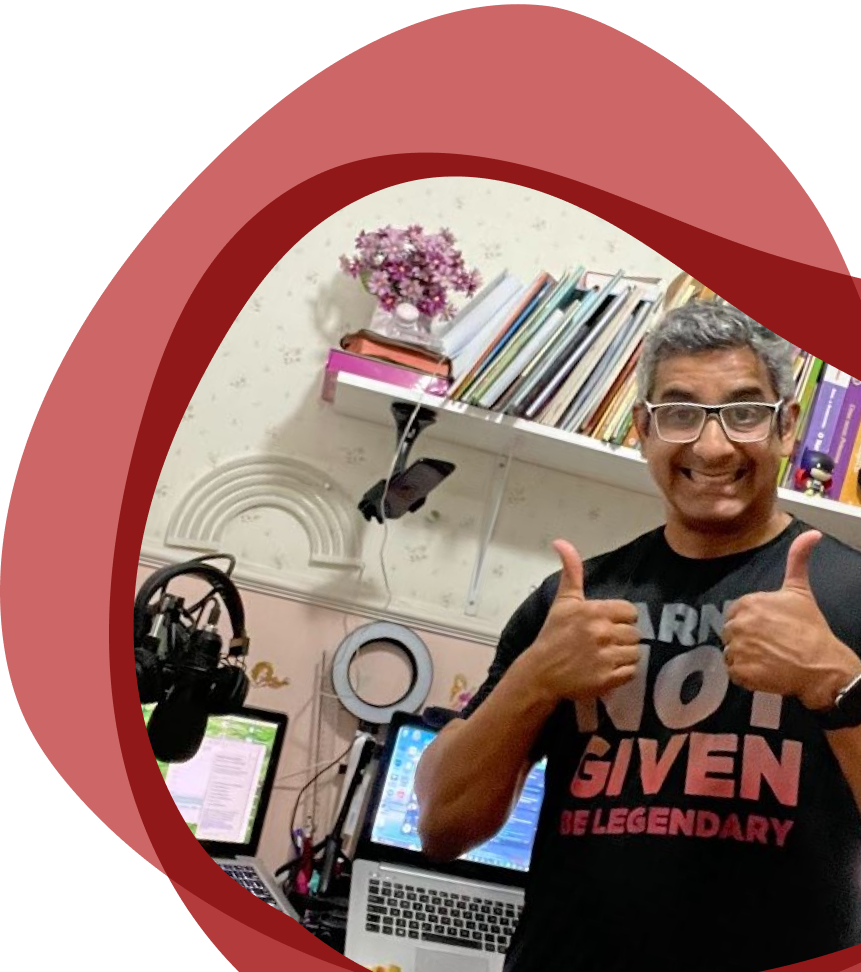
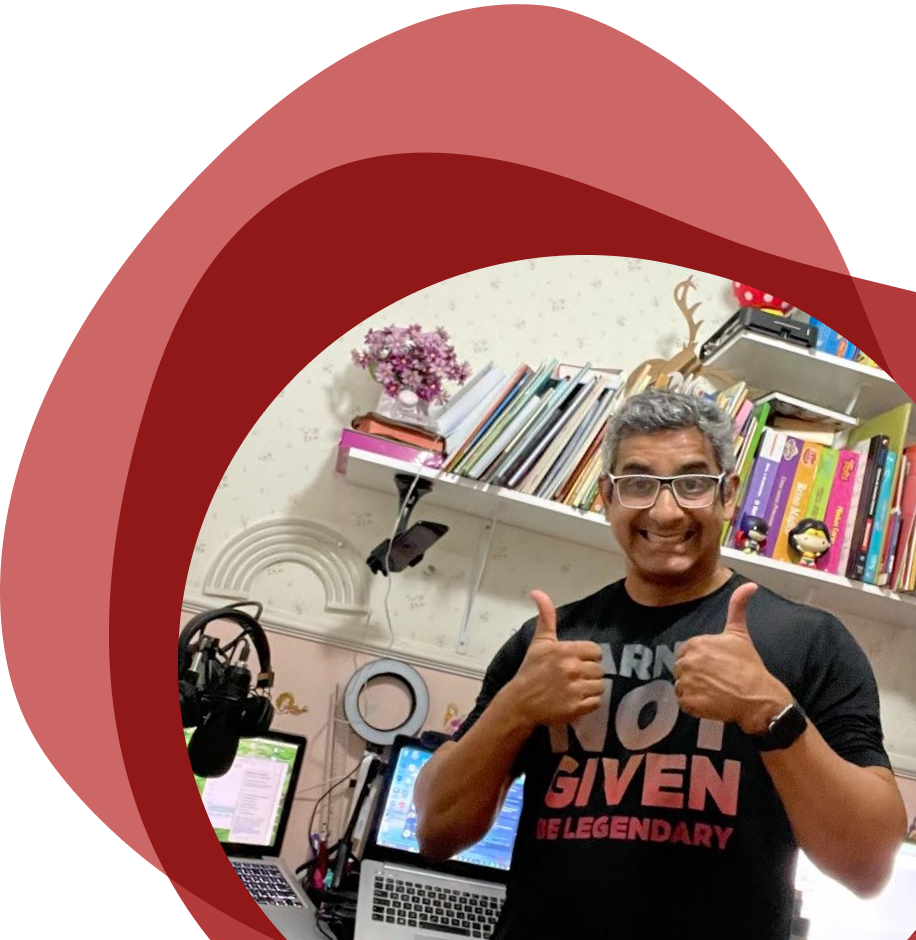
fix reajuste de imagem

diff --git a/src/pages/Login/style.ts b/src/pages/Login/style.ts
@@ -17,7 +17,7 @@ export const Body = styled.body`
 display: flex;
 height: 100vh;
 width: 100vw;
-justify-content: space-between;
+justify-content: space-around;
 overflow-x: hidden;
 @media (max-width: 1024px) {
   flex-direction: column;
@@ -117,8 +117,9 @@ export const FormStyle = styled.section`
   margin: auto;
   max-width: 410px;
   width: 100%;
-   top: 25%;
+   top: 28%;
    position: relative;
+   left: 6%;
 }
 
 @media (max-width: 1024px) {
@@ -128,6 +129,7 @@ export const FormStyle = styled.section`
   width: 100%;
   position: static;
   z-index: 1;
+  
 
 }
 
@@ -174,15 +176,15 @@ width: 50%;
 export const Image = styled.img`
 @media (min-width: 1025px) {
   position: fixed;
-  width: 55vw;
+  width: 50vw;
   bottom: 0px;
   right: 0px;
-  height: 97.5vh;
+  height: 99vh;
 }
 
 @media (max-width: 1024px)  {
   content: url(${TabletImage});
-  position: initial;
+  position: relatve;
   width: 100%;
   min-height: 287px;
   object-fit: contain;
